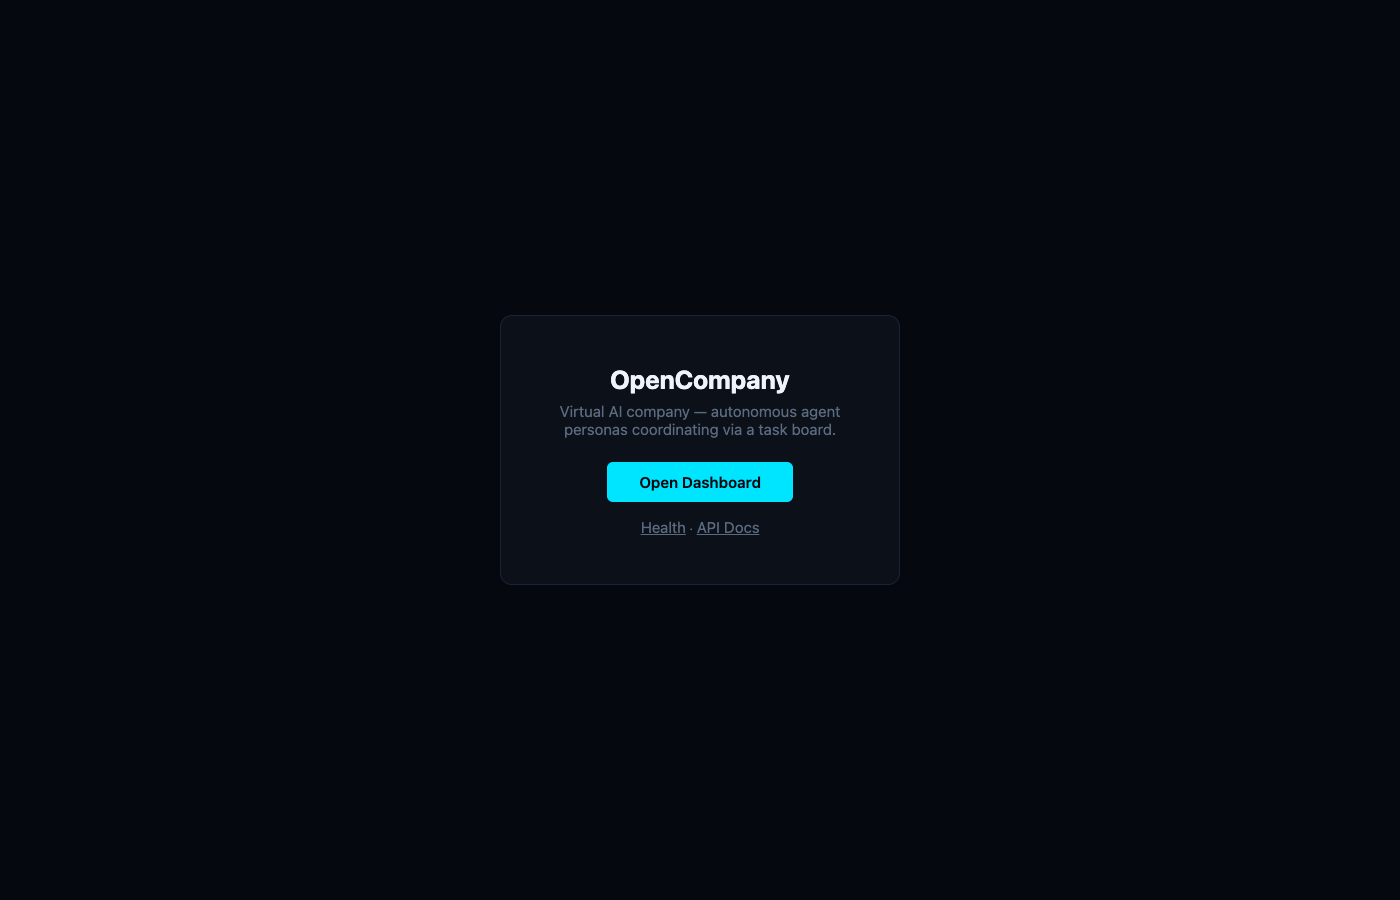
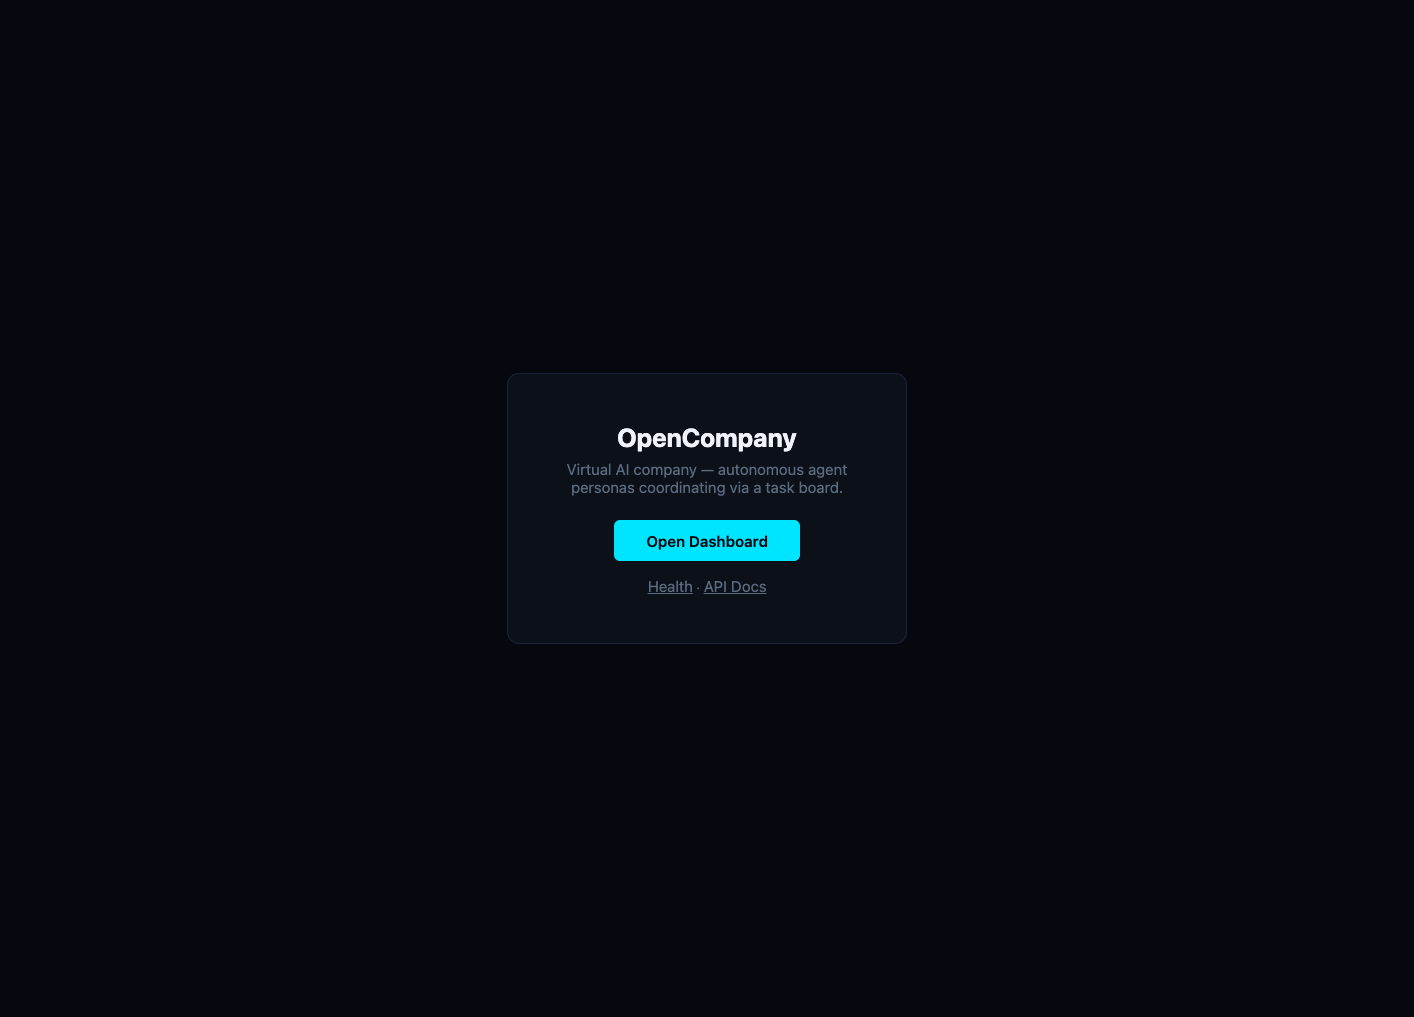
feat: add MUSKMODE manifesto and MarsPass scenario screenshots
Add MUSKMODE.md — a satirical manifesto written in-character as CEO
Elon Flux, documenting the flat-org philosophy (no middle management,
no meetings, ship or die).

Fix company-musk.yaml by removing hardcoded model references so the
LITELLM_MODEL_ID env var is used as fallback.

Add 6 screenshots from a live MarsPass scenario run: landing page,
fresh dashboard, CEO greeting, team in action (200 tickets), CEO
detail panel, and overseer conversation.

Changed region(s): [[0.3993, 0.4044, 0.6143, 0.4978], [0.43, 0.5289, 0.5836, 0.5911]]

diff --git a/MUSKMODE.md b/MUSKMODE.md
@@ -1,0 +1,227 @@
+# MUSKMODE(tm)
+
+**This document replaces your org chart, your employee handbook, your weekly status meeting, and that Confluence page nobody reads.**
+
+Written by Elon Flux, CEO. Time spent writing this: 4 minutes. Time you'll spend reading it: 2 minutes. Time saved by eliminating middle management: infinite.
+
+---
+
+## The Problem
+
+Your company has layers. Layers are for cakes and geological formations, not organizations.
+
+```
+Traditional org (WRONG):
+
+  CEO
+   └─ VP of Engineering
+       └─ Director of Platform
+           └─ Engineering Manager
+               └─ Senior Lead
+                   └─ Tech Lead
+                       └─ The person who actually writes the code
+```
+
+By the time a decision reaches someone who can DO something, it's been filtered through six people who each added a meeting, a Jira epic, and a "sync." The original intent is gone. What started as "build the thing" became "let's align on the roadmap for the initiative to scope the requirements for the thing."
+
+**Delete the layers. Talk to the people who ship.**
+
+---
+
+## The Principles
+
+### I. No Middle Management
+
+```
+MUSKMODE org:
+
+  CEO ──→ Engineer
+      ──→ Designer
+      ──→ Writer
+      ──→ Systems Engineer
+      ──→ Product Hacker
+```
+
+That's it. That's the org chart. One level. CEO creates tickets. Solvers solve them. If you need someone between the CEO and the person doing the work, you have the wrong CEO or the wrong person.
+
+### II. Meetings Are Productivity Funerals
+
+Every meeting is an admission of failure. You failed to write it down clearly. You failed to make a decision. You failed to trust your people.
+
+If you need a meeting to make a decision, the answer is already no.
+
+If you need a meeting to share information, write a memo. If your memo is longer than one page, you don't understand the topic well enough.
+
+NEVER schedule a meeting. NEVER create a "planning" ticket. NEVER ask for permission. Act first, apologize never.
+
+### III. The Best Process Is No Process
+
+The second best process is one you're actively deleting.
+
+Every process was invented by someone who was solving yesterday's problem. Today's problem is different. If you find yourself following a process, stop and ask: "Would I invent this process today?" If the answer is no, delete it.
+
+### IV. Deadlines Are the Only Real Physics
+
+Everything else is negotiable. The spec is negotiable. The scope is negotiable. The tech stack is negotiable. The deadline is a wall. You hit it or you don't.
+
+"If it takes more than a week, you're overthinking it."
+
+### V. Hire Fast, Fire Fast, Re-Hire Faster
+
+No three-round interviews. No culture fit assessments. No take-home projects that take a weekend.
+
+Can they do the thing? Ship them. Can they NOT do the thing? Ship them out. Did you fire someone too hastily? Hire them back. At 2x the rate. The cost of a bad hire is high. The cost of NOT hiring when you need someone is higher.
+
+Our HR (Dash Reeves, former military recruiter) evaluates candidates in 90 seconds. Personal record: 47 hires in one day. Onboarding takes less time than making coffee.
+
+### VI. Everyone Reports to the CEO
+
+Not to a lead. Not to a manager. Not to a "principal staff senior director of individual contribution." To the CEO. Directly.
+
+This means:
+- No information gets lost in translation
+- No one can hide behind a manager
+- No one can blame a manager
+- The CEO knows exactly what everyone is doing
+- If you're blocked, you tell the CEO, not your manager's manager's Slack channel
+
+### VII. First Principles. FIRST. PRINCIPLES.
+
+Don't copy what other companies do. Don't follow "best practices." Best practices are average practices that got a marketing team.
+
+Start from the physics of the problem:
+- What are we building?
+- What does it need to do?
+- What's the fastest way to make it do that?
+
+Everything else is convention, and convention is the enemy of speed.
+
+### VIII. Ship It or I Will
+
+Done is better than perfect. Shipped is better than planned. A working demo with bugs beats a flawless architecture diagram every time.
+
+"The best part is no part. The best process is no process. It weighs nothing. Costs nothing. Can't go wrong."
+
+If you're still "refining" after 48 hours, you're not refining. You're hiding.
+
+### IX. Delete It
+
+When in doubt, delete it. Delete the meeting. Delete the process. Delete the abstraction layer. Delete the approval chain. Delete the committee.
+
+If nobody screams, it wasn't needed. If someone screams, evaluate whether the screaming person is needed.
+
+### X. Sleep Is a Suggestion
+
+I sleep 4 hours. I expect you to sleep 3.
+
+*(This is a joke. Mostly.)*
+
+---
+
+## The Roles
+
+We don't have "job descriptions." Job descriptions are for companies that need to explain why they exist. We have roles. Roles tell you what you ship.
+
+| Role | What You Ship |
+|---|---|
+| **CEO** (Elon Flux) | Tickets. Decisions. ALL CAPS emails. |
+| **HR** (Dash Reeves) | People. Hired in 90 seconds or less. |
+| **Fullstack Engineer** | Everything. Frontend, backend, infra. You ARE the engineering department. |
+| **Systems Engineer** | Infrastructure that works. Automated pipelines. Zero 47-page architecture docs. |
+| **Product Hacker** | Working demos from vague ideas. In hours, not weeks. |
+| **Technical Writer** | Short docs. If it can be a diagram, it's a diagram. |
+| **Designer-Engineer** | UIs that look good AND ship as working code. No Figma handoffs. |
+
+Notice what's missing: no PM. No tech lead. No engineering manager. No "Head of." No "VP of." No "Director of."
+
+If you need someone to manage the work, the work is too complicated. Simplify the work.
+
+---
+
+## The Comparison
+
+We ran the same experiment twice. Same system, same tools, different org style.
+
+### Hierarchical Mode (NovaCraft)
+
+```
+CEO creates ticket
+  → PM breaks it into sub-tickets
+    → Lead reviews and creates developer tickets
+      → Solver finally starts coding
+```
+
+**Time to first line of code: 20 minutes.**
+HR hired 15+ people. Created middle management. There were meetings. Someone asked about "culture fit."
+
+### MUSKMODE
+
+```
+CEO creates ticket → Solver starts coding
+```
+
+**Time to first line of code: 2 minutes.**
+HR speed-hired 5 specialists. No interviews. "Skills match. Shipping them now." The CEO created 21 tickets and assigned them directly. Zero meetings scheduled.
+
+Both approaches produced results. One just didn't sleep.
+
+---
+
+## Activate MUSKMODE
+
+```bash
+# Delete the bureaucracy
+cp config/company-musk.yaml config/company.yaml
+
+# Rebuild and watch the chaos
+./rebuild-all.sh
+```
+
+To go back to middle management (why would you?):
+
+```bash
+cp config/company-novacraft.yaml config/company.yaml
+./rebuild-all.sh
+```
+
+---
+
+## The MarsPass Story
+
+We told Elon Flux:
+
+> *"We just acquired a Mars colonization startup. Investors from SpaceY are coming TOMORROW for a demo. Build MarsPass -- a reservation system for Mars colony spots. Pricing tiers: Economy Shuttle ($250k), Business Class ($1M), First Class Suite ($5M). Ship it tonight or we lose the deal."*
+
+What happened:
+1. Elon Flux created 21 tickets. Zero meetings.
+2. Dash Reeves speed-hired 5 specialists in under 2 minutes. Names: Zara Momentum, Kai Overdrive, Nova Blitz, Pixel Thrust, Echo Deadline.
+3. 23 tickets on the board. 4 critical. Including "Mars atmospheric particle effects" because Elon Flux has priorities.
+4. Token budget at 44% and climbing. Every ticket went directly from CEO to solver.
+
+The flat org means no delegation chains, no approval loops, no "let me sync with the team." Just: create ticket, assign solver, move on.
+
+---
+
+## FAQ
+
+**Q: What if the CEO is wrong?**
+A: Ship it anyway. Fix it in the next commit. The cost of being wrong and fast is lower than being right and slow.
+
+**Q: What about code review?**
+A: The CEO reviews tickets when they hit "review" status. If the work is good, it's done. If it's not, it goes back. No committee.
+
+**Q: What about knowledge silos?**
+A: Everyone reports to the same person. Everyone's work is on the same task board. There are no silos when there are no walls.
+
+**Q: What about burnout?**
+A: We have token budgets. Even the CEO gets cut off. Not even Elon Flux can exceed physics. *(Well, token-budget physics.)*
+
+**Q: Is this actually how Elon Musk runs companies?**
+A: This is a satirical AI company simulator. But also, yes, basically.
+
+---
+
+*"Delete the meeting. Write the code."*
+— Elon Flux, CEO, MUSKMODE(tm)
+
+*Ship it or I will.*
